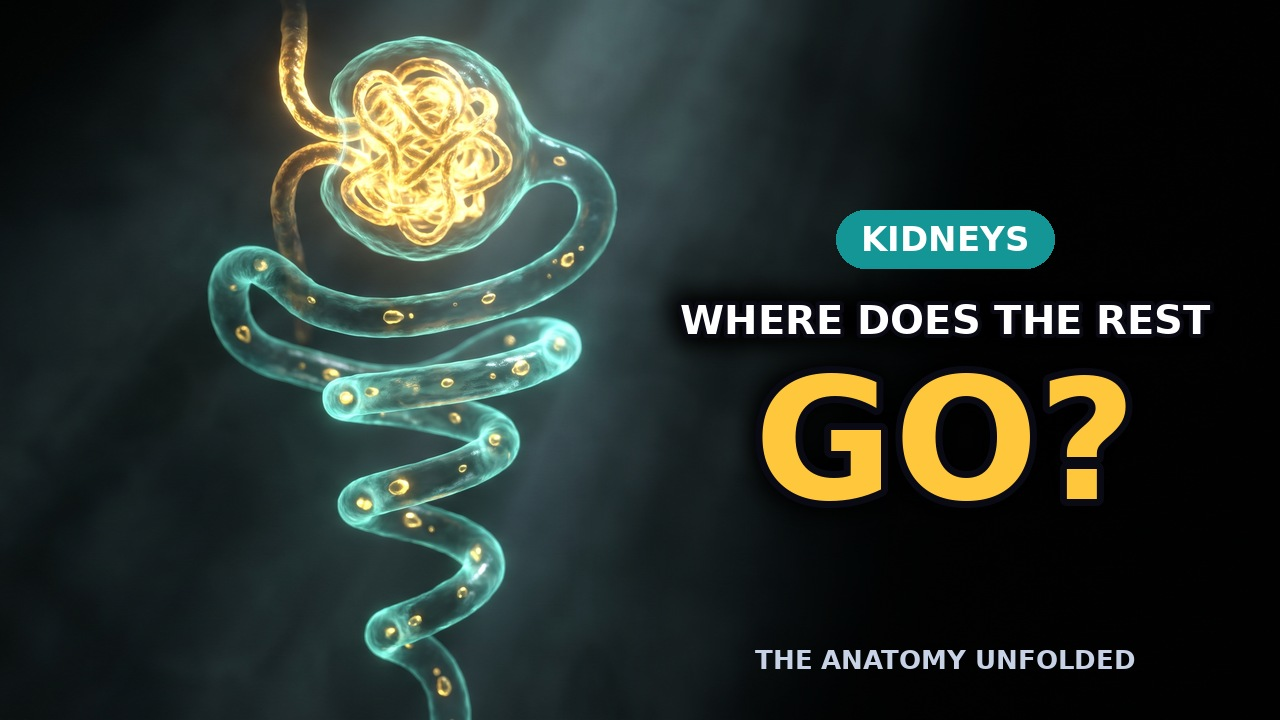
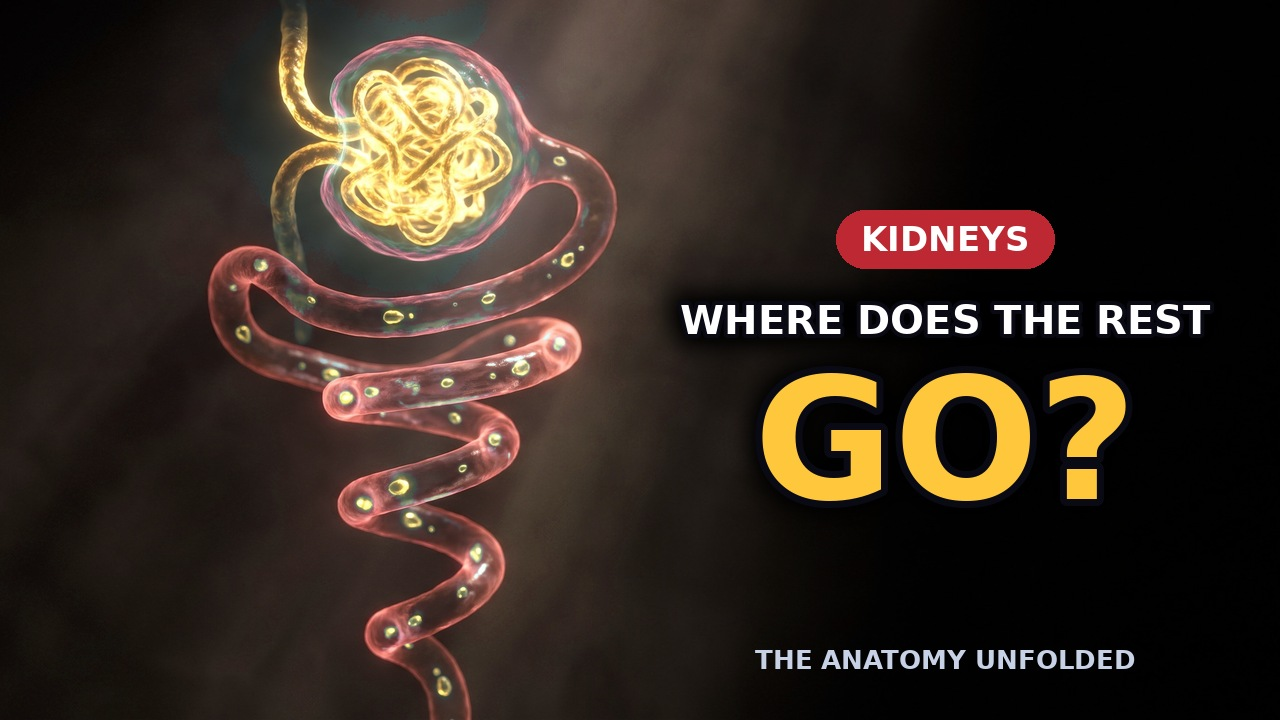
Kidney thumbnail recoloured crimson+gold (update); thumbnail colour plan
Claude-Session: https://claude.ai/code/session_014KHa7RhKGUzG1pEih675R6

Changed region(s): [[0.1562, 0.0, 0.5312, 1.0], [0.6562, 0.275, 0.8438, 0.3972]]

diff --git a/.claude/skills/anatomy-unfolded-director/SKILL.md b/.claude/skills/anatomy-unfolded-director/SKILL.md
@@ -54,3 +54,10 @@ wrong or what is better BEFORE I have to ask. That is your benefit to me."
   carries it out) and the Reel ids in social_posted.json history; NEVER delete the current queue.json copy; then
   report exactly which ids were deleted and which were kept.
 - This permission covers exact duplicates/superseded versions only, not other deletions.
+
+# Thumbnail colour plan (owner 13 Nov: "colours are coming the same pattern")
+- Never two neighbouring episodes in the same palette. Used so far: heart = red/dark; lungs = ice blue, teal for Breathing;
+  brain/neuron/spine = violet+gold; autonomic = red vs teal split; endocrine = teal+gold; digestive = orange+green;
+  kidney = crimson+gold (recoloured from teal); immune = MAGENTA + LIME (prompts below).
+- Upcoming plan: skin = warm coral/sand + cream-white; musculoskeletal = bone ivory + deep blue; senses/eye = electric blue +
+  amber; reproductive = soft rose + deep plum; lymphatic = lime + indigo. Check this list before writing any prompt.
